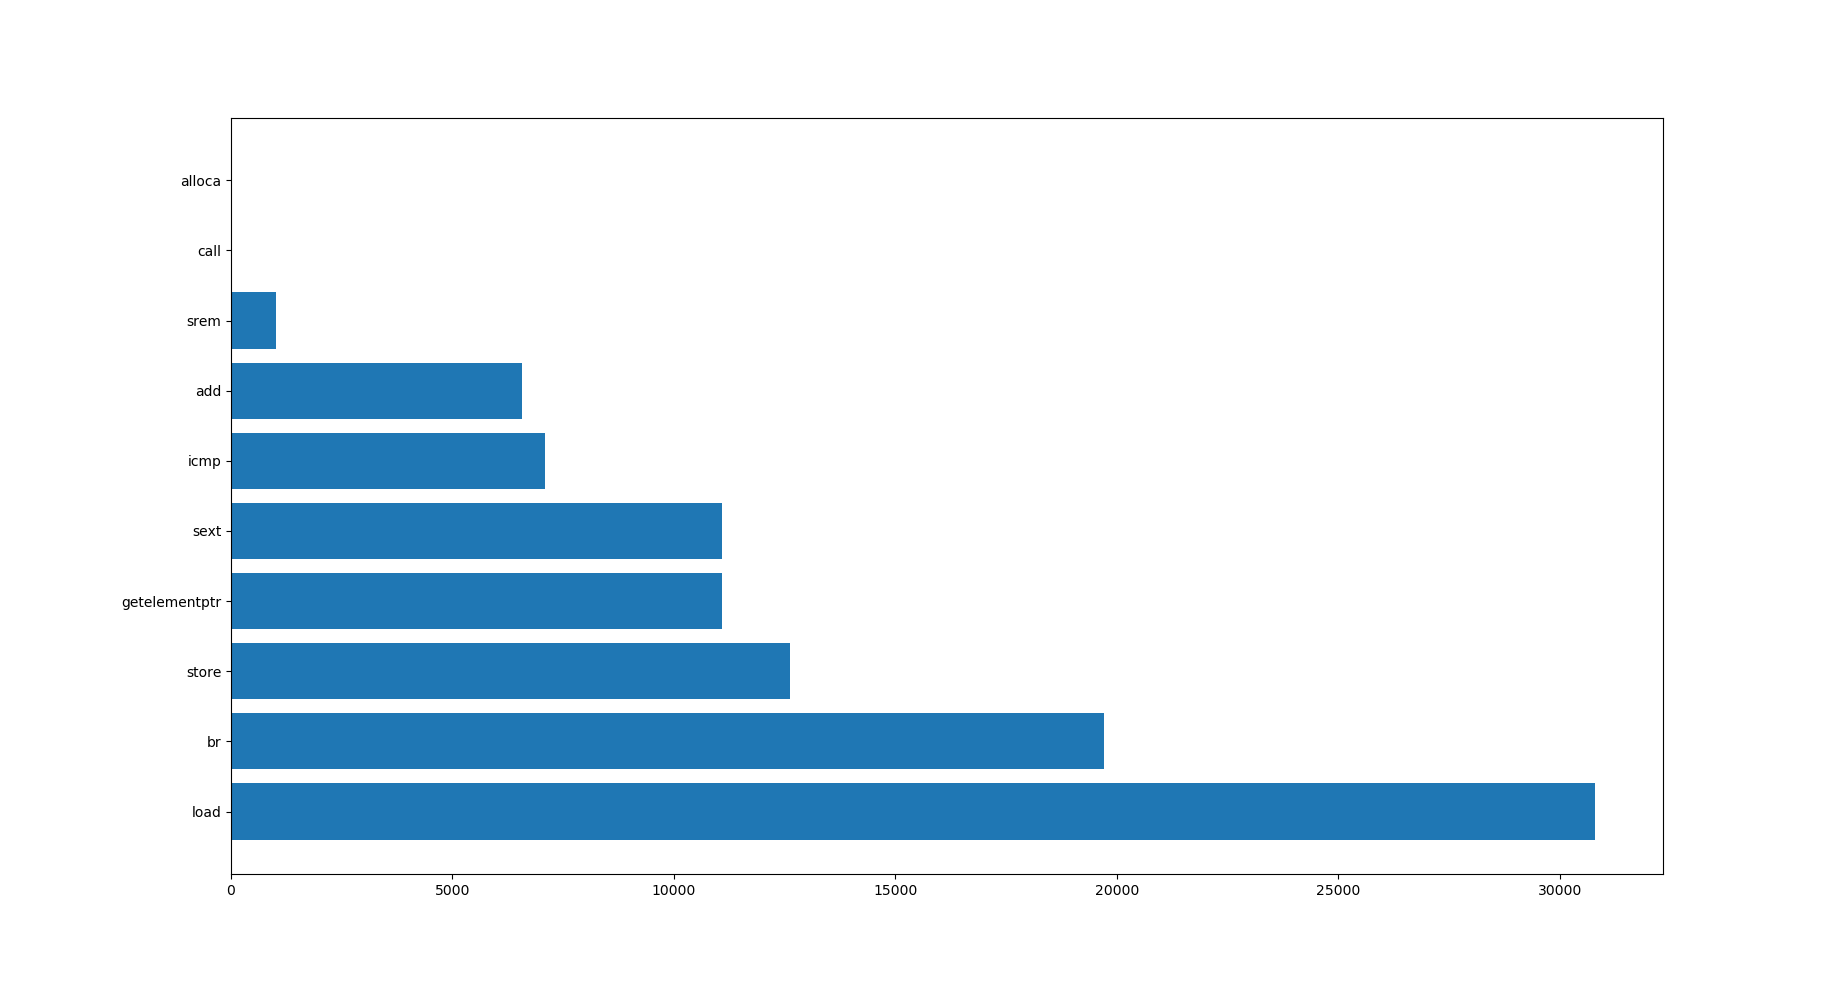
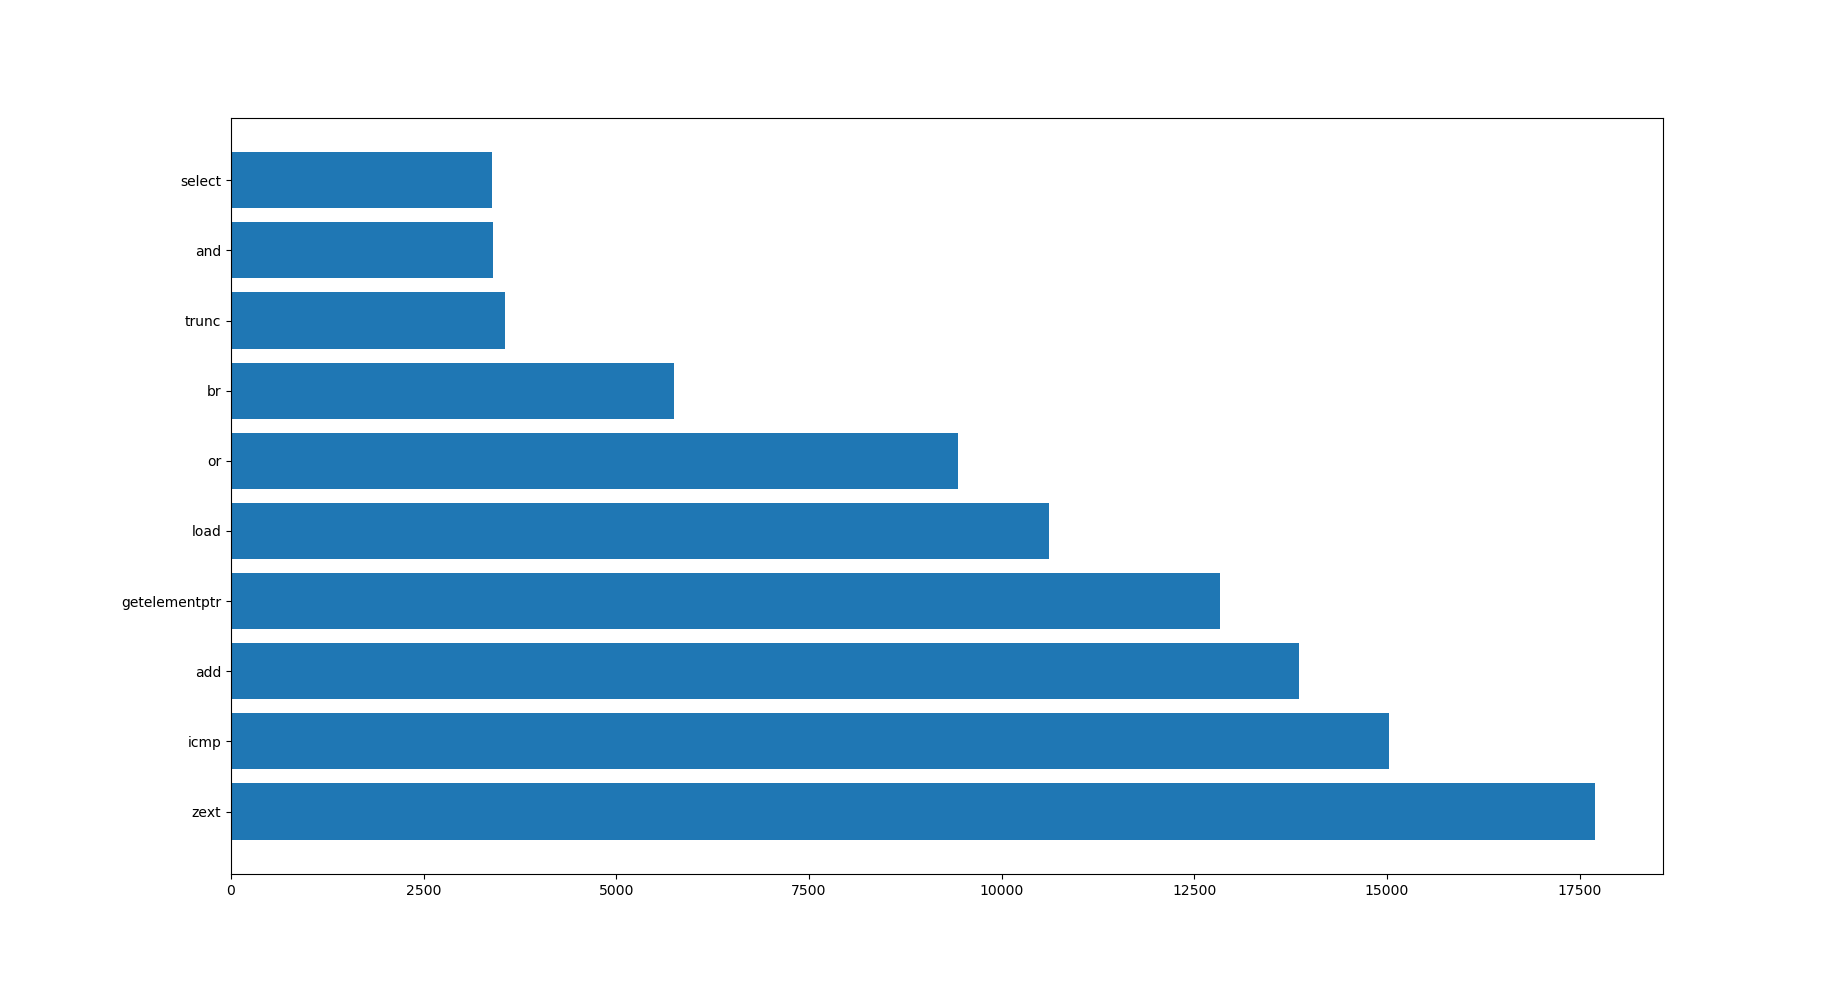
Collect statistic with -O2

diff --git a/game_of_life.c b/game_of_life.c
@@ -3,8 +3,8 @@
 
 // clang++ Pass_profile.cpp -c -fPIC -I`llvm-config --includedir` -o Pass.o
 // clang++ Pass.o -fPIC -shared -o libPass.so
-// clang -Xclang -load -Xclang ./libPass.so game_of_life.c -lSDL2 -I"/usr/include/SDL2/" -emit-llvm -S -o game.ll
-// clang -Xclang -load -Xclang ./libPass.so game_of_life.c log.c sim.c -lSDL2 -I"/usr/include/SDL2/"
+// clang -Xclang -load -Xclang ./libPass.so game_of_life.c -lSDL2 -I"/usr/include/SDL2/" -emit-llvm -S -O2 -o game.ll
+// clang -Xclang -load -Xclang ./libPass.so game_of_life.c log.c sim.c -lSDL2 -I"/usr/include/SDL2/" -O2
 // ./a.out > instruction.txt
 // python3 statistic.py
 

diff --git a/Pass_profile.cpp b/Pass_profile.cpp
@@ -88,5 +88,5 @@ static void registerProfilerPass(const PassManagerBuilder &,
   PM.add(new ProfilerPass());
 }
 static RegisterStandardPasses
-    RegisterProfilerPass(PassManagerBuilder::EP_EarlyAsPossible,
+    RegisterProfilerPass(PassManagerBuilder::EP_OptimizerLast,
                    registerProfilerPass);
